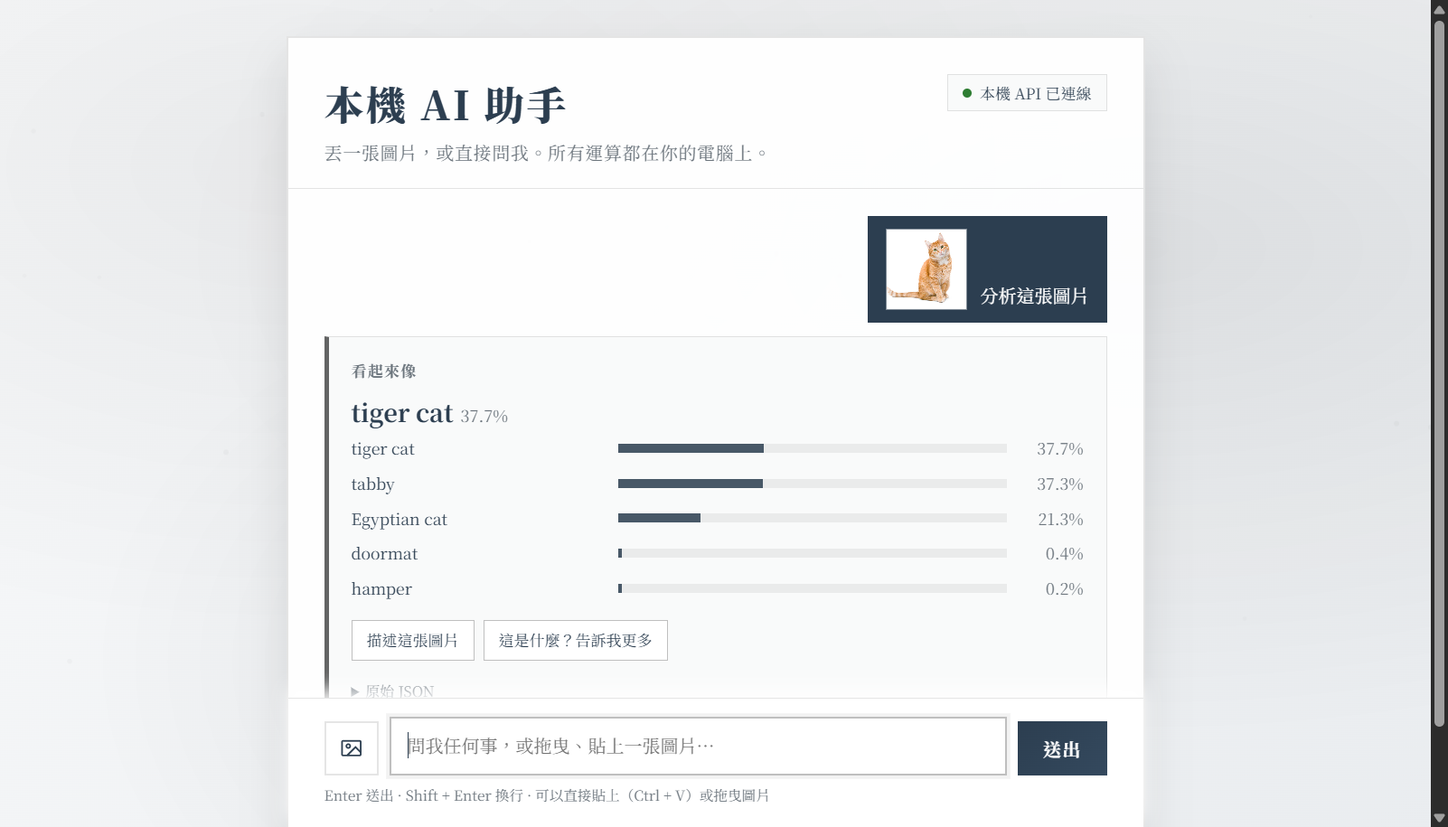
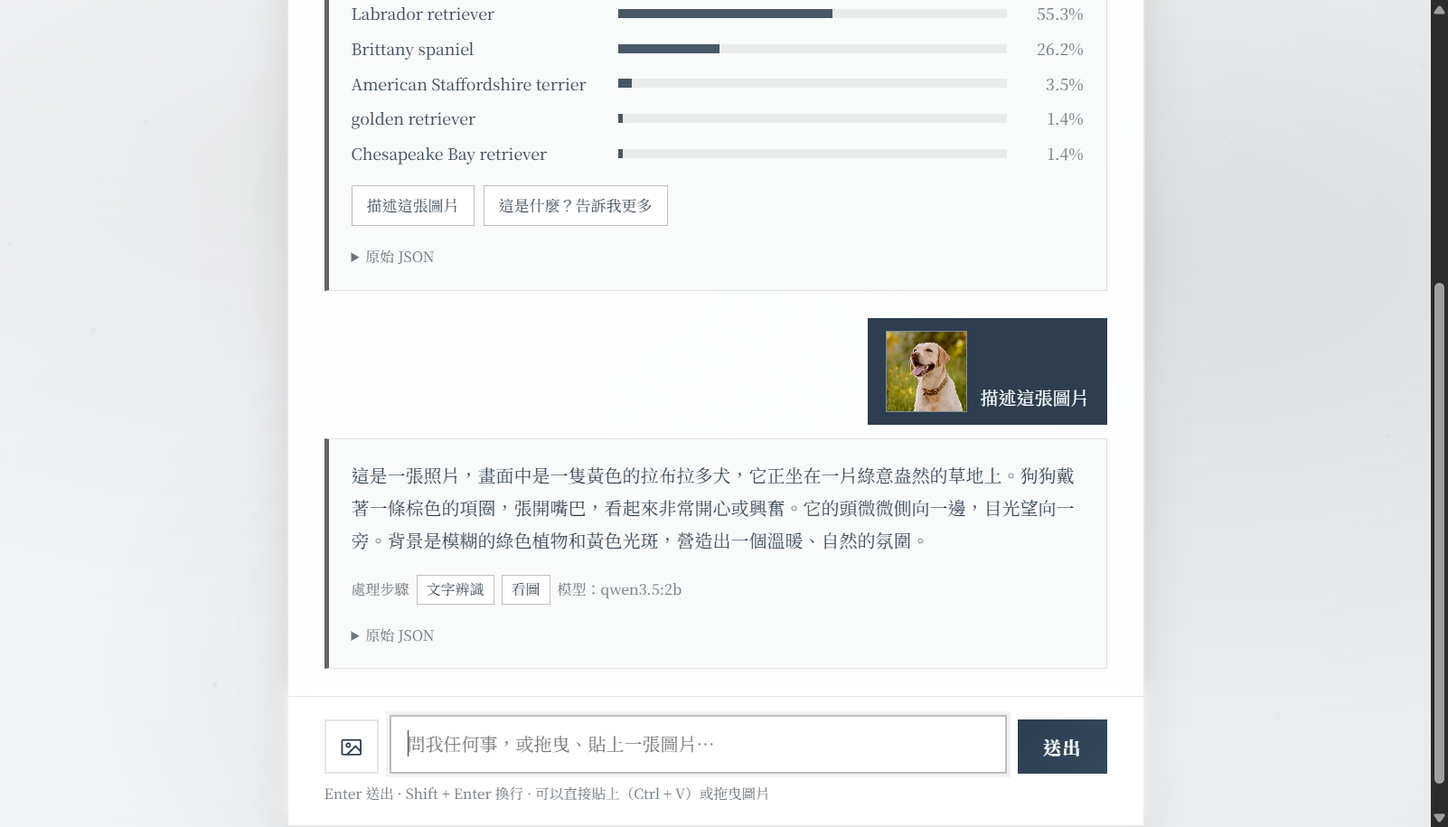
docs: document model choice by hardware and before/after measurements

diff --git a/README.md b/README.md
@@ -6,13 +6,13 @@
 [![Container image](https://github.com/reedlin2002/Local_API_AI/actions/workflows/container.yml/badge.svg)](https://github.com/reedlin2002/Local_API_AI/actions/workflows/container.yml)
 [![GitHub Pages](https://github.com/reedlin2002/Local_API_AI/actions/workflows/pages.yml/badge.svg)](https://reedlin2002.github.io/Local_API_AI/)
 
-Local_API_AI 是一套在自己電腦上執行的 AI 推理服務，把圖片分類、OCR 文字辨識、文字生成、圖像描述，以及能自行呼叫工具的 Agent 整合成同一組 REST API。所有推理都在本機完成，資料不會上傳到任何雲端服務。
+Local_API_AI 是一套在自己電腦上執行的 AI 推理服務，把圖片分類、文字辨識（OCR）、看圖問答與文字生成整合成同一組 REST API。所有推理都在本機完成，資料不會上傳到任何雲端服務。
 
 > **線上展示**：[開啟 Web Demo](https://reedlin2002.github.io/Local_API_AI/)
 > 介面放在 GitHub Pages，AI 運算在你本機的 API 上執行。開啟頁面前請先用 Docker 啟動 API（見[快速開始](#快速開始)）。
 
 > **專案定位**
-> 本專案以通用預訓練模型（ImageNet ResNet50、Tesseract、Ollama 本機 LLM）為核心，重點在驗證「本機推理 + 工具呼叫 + 自動化交付」這條完整路線，而不是追求單一模型的極致準確度。
+> 以小型開源模型（Qwen3.5-2B、PP-OCRv5、ResNet50）為核心，驗證一般筆電（4 GB 顯示卡）也能流暢執行的本機多模態路線。模型選擇都依實測決定，見[模型選擇與硬體考量](#模型選擇與硬體考量)。
 
 ![前端介面](docs/frontend.png)
 
@@ -26,6 +26,7 @@ Local_API_AI 是一套在自己電腦上執行的 AI 推理服務，把圖片分
 - [流程架構圖](#流程架構圖)
 - [技術棧](#技術棧)
 - [模型與方法](#模型與方法)
+- [模型選擇與硬體考量](#模型選擇與硬體考量)
 - [API 入口](#api-入口)
 - [效能與品質改善](#效能與品質改善)
 - [CI/CD](#cicd)
@@ -38,11 +39,11 @@ Local_API_AI 是一套在自己電腦上執行的 AI 推理服務，把圖片分
 
 ## 核心價值
 
-- **不用先選功能**：只有一個輸入框。丟圖片就自動分析、打字就回答、圖片加問題就交給 Agent，系統自己決定該用哪些模型。
+- **不用先選功能**：只有一個輸入框。丟圖片就自動分析、打字就回答、圖片加問題就看圖回答，系統自己決定該用哪些模型。
+- **先讀字、再看圖**：圖片問題會先用專門的 OCR 模型精準讀出圖中文字，再把圖片和文字一起交給多模態模型。小模型自己讀字容易猜錯，OCR 模型幾乎不會。
+- **筆電就跑得動**：一個 2B 的多模態模型同時負責文字與看圖，4 GB 顯存放得下 90%；看圖問答約 1 秒回完，不用在多個模型之間來回載入。
 - **資料不離開本機**：影像與文字只在本機處理，適合內部文件、敏感圖片與離線環境。
-- **一組 API 整合多種能力**：分類、OCR、文字生成、圖像描述與 Agent 共用相同的上傳、錯誤與輸出格式。
-- **Agent 一定看過圖才回答**：模型會用 tool calling 呼叫 OCR 與分類；小模型沒有呼叫工具時，伺服器會先跑工具，再把結果交給模型，避免憑空作答。
-- **缺模型時優雅降級**：沒有視覺模型時，圖像描述改用分類結果；Ollama 沒啟動時回傳清楚的 503 提示，而不是一般的伺服器錯誤。
+- **沒有 LLM 也能用**：圖片分類與 OCR 在 API 程序內執行，不需要 Ollama；Ollama 沒啟動時，前端會改顯示本機分析結果。
 - **預設安全**：CORS 只允許指定網站、錯誤訊息不帶堆疊資訊、不記錄使用者的 prompt 與模型輸出、限制上傳大小。
 - **自動化交付**：每次 push 都會跑測試、建置並實際啟動 Docker 映像做冒煙測試，通過後才發佈。
 
@@ -50,15 +51,14 @@ Local_API_AI 是一套在自己電腦上執行的 AI 推理服務，把圖片分
 
 | 功能 | 說明 |
 | --- | --- |
-| 單一輸入、自動分流 | 文字、圖片或兩者一起送出，前端自動決定要分析、回答還是交給 Agent；結果下方提供一鍵追問 |
+| 單一輸入、自動分流 | 文字、圖片或兩者一起送出，前端自動決定要分析還是回答；結果下方提供一鍵追問 |
+| 看圖問答 | 附圖提問時，OCR 先讀字，Qwen3.5 看圖並參考 OCR 結果回答，回應中列出處理步驟 |
 | 圖片分析 | 分類與 OCR 平行執行、一次回傳，不需要 Ollama；圖中有文字時優先顯示文字 |
+| 文字辨識 OCR | PP-OCRv5，支援繁體中文、簡體中文、英文與日文 |
 | 圖片分類 | ResNet50 辨識圖片主體，回傳前 5 名 ImageNet 類別與機率 |
-| 批次分類 | 一次上傳多張圖片，無法解析的檔案會單獨標示錯誤 |
-| OCR 文字辨識 | 辨識圖片中的英文與繁體中文 |
-| 文字生成 | 透過本機 Ollama 文字模型回答與創作 |
-| 圖像描述 | 有視覺模型時直接看圖描述；沒有時以分類結果請文字模型描述，並在回應中標明使用的方法 |
-| 智慧問答 Agent | 可附一張圖片，Agent 自行決定要呼叫 OCR 或圖片分類，再回答問題 |
-| 多格式輸出 | 每個端點都能回傳 JSON 或純文字 |
+| 圖像描述 | 多模態模型直接看圖描述，可自訂指示（例如指定用中文） |
+| 文字生成 | 本機 LLM 問答與創作 |
+| 批次分類 / 多格式輸出 | 一次上傳多張圖片；每個端點都能回傳 JSON 或純文字 |
 
 ---
 
@@ -70,44 +70,40 @@ flowchart TB
 
     subgraph API["Local_API_AI · ASP.NET Core（本機或 Docker）"]
         C["AIController<br/>輸入驗證 · 統一輸出 · 錯誤處理"]
-        subgraph InProc["程序內推理（不需網路）"]
-            CLS["圖片分類<br/>ONNX Runtime · ResNet50"]
-            OCR["OCR<br/>Tesseract"]
+        subgraph InProc["程序內推理（CPU，不需網路）"]
+            OCR["文字辨識<br/>PP-OCRv5 mobile"]
+            CLS["圖片分類<br/>ResNet50"]
         end
-        subgraph LLM["LLM 功能"]
-            TXT["文字生成"]
-            DESC["圖像描述"]
-            AG["Agent"]
-        end
+        AS["看圖問答 / 圖像描述 / 文字生成"]
     end
 
-    OL[("Ollama<br/>本機 LLM")]
+    OL[("Ollama · Qwen3.5-2B<br/>單一模型負責文字與看圖")]
 
     UI -->|"HTTP · CORS 白名單"| C
     C --> InProc
-    C --> LLM
-    LLM -->|"REST"| OL
-    AG -.->|"工具呼叫"| InProc
+    C --> AS
+    AS -->|"先讀圖中文字"| OCR
+    AS -->|"圖片縮至 768 px + OCR 文字"| OL
 ```
 
 ### 前端
 
-`wwwroot/index.html` 是純靜態頁面，介面只有一個輸入框：可以打字、按按鈕附加圖片、直接拖曳或貼上（Ctrl + V）圖片。使用者不需要知道背後有哪些模型，頁面會依輸入內容自動呼叫對應的 API（見下方[前端自動分流](#前端自動分流)）。
+`wwwroot/index.html` 是純靜態頁面，介面只有一個輸入框：可以打字、按按鈕附加圖片、直接拖曳或貼上（Ctrl + V）圖片。使用者不需要知道背後有哪些模型，頁面會依輸入內容自動呼叫對應的 API（見[前端自動分流](#前端自動分流)）。
 
-同一份檔案有兩種用法：由 API 本身提供（`http://localhost:5136`），或部署在 GitHub Pages 上，再連回使用者本機的 API。頁面會自動偵測 API 是否在線，並可自訂 API 位址。
+同一份檔案有兩種用法：由 API 本身提供（`http://localhost:5136`），或部署在 GitHub Pages 上，再連回使用者本機的 API。頁面會自動偵測 API 是否在線，未連線時每 5 秒自動重試。
 
 ### 後端與 AI 推理
 
 ASP.NET Core（.NET 10）提供 REST API，負責：
 
 - 驗證上傳檔案（格式、大小）並統一錯誤回應格式（RFC 7807）
-- 圖片分類與 OCR 直接在程序內執行，模型只在啟動時載入一次
-- 文字生成、圖像描述與 Agent 透過 Ollama REST API 呼叫本機 LLM
-- 將 Ollama 的各種失敗（未啟動、缺模型、不支援工具、逾時）轉成明確的狀態碼與提示
+- OCR 與圖片分類直接在程序內執行（ONNX Runtime），模型只載入一次
+- 看圖問答、圖像描述與文字生成透過 Ollama 呼叫本機的 Qwen3.5；API 啟動時就在背景預先載入模型
+- 將 Ollama 的各種失敗（未啟動、缺模型、逾時）轉成明確的狀態碼與提示
 
 ### 外部服務
 
-唯一的外部依賴是本機的 [Ollama](https://ollama.com)，只有文字生成、圖像描述與 Agent 需要它；圖片分類與 OCR 不需要網路，也不需要 Ollama。
+唯一的外部依賴是本機的 [Ollama](https://ollama.com)，只有看圖問答、圖像描述與文字生成需要它。
 
 ---
 
@@ -119,42 +115,27 @@ ASP.NET Core（.NET 10）提供 REST API，負責：
 flowchart LR
     A["使用者輸入<br/>文字 / 圖片 / 兩者"] --> B{"有文字？"}
     B -->|"沒有，只有圖片"| C["/api/ai/analyze<br/>分類 + OCR"]
-    B -->|有| D["/api/ai/ask<br/>Agent"]
+    B -->|有| D["/api/ai/ask<br/>看圖問答"]
     C --> E["顯示結果<br/>＋ 一鍵追問"]
-    E -->|"描述這張圖片"| F["/api/ai/describe-image"]
-    E -->|"這段文字在說什麼？"| D
+    E -->|"描述這張圖片<br/>這段文字在說什麼？"| D
     D -->|"Ollama 未啟動且有圖片"| C
 ```
 
 附加的圖片會保留在輸入框，接著追問同一張圖片時不用重新上傳；按 × 即可移除。
 
-### Agent 決策流程
+### 看圖問答流程
 
 ```mermaid
 flowchart LR
-    A["使用者問題<br/>（可附圖片）"] --> B{"有附圖片？"}
-    B -->|否| C["LLM 直接回答"]
-    B -->|是| D["LLM + 工具<br/>classify_image<br/>read_text_in_image"]
-    D -->|"呼叫工具"| F["執行分類 / OCR<br/>結果回傳 LLM"]
-    F --> D
-    D -->|"根據工具結果作答"| H["回傳答案<br/>與使用過的工具"]
-    D -->|"沒呼叫工具<br/>或不支援工具"| I["伺服器先跑全部工具<br/>再把結果交給 LLM"]
-    I --> H
-    C --> H
+    A["問題 + 圖片"] --> B["驗證圖片格式"]
+    B --> C["PP-OCRv5<br/>讀出圖中文字"]
+    B --> D["縮小圖片<br/>長邊 ≤ 768 px"]
+    C --> E["Qwen3.5-2B<br/>看圖 + 參考 OCR 文字"]
+    D --> E
+    E --> F["回答 + 處理步驟<br/>（文字辨識、看圖）"]
 ```
 
-### 圖像描述流程
-
-```mermaid
-flowchart LR
-    A["上傳圖片"] --> B["驗證格式"]
-    B --> C{"已安裝視覺模型？<br/>例：llava"}
-    C -->|是| D["圖片直接交給視覺模型"]
-    C -->|否| E["ResNet50 取得前 3 名類別"]
-    E --> F["文字模型依類別描述<br/>（不得捏造細節）"]
-    D --> G["description + method + model"]
-    F --> G
-```
+OCR 與縮圖同時進行。沒有附圖時，問題直接交給同一個模型回答。
 
 ### 錯誤處理
 
@@ -173,11 +154,12 @@ flowchart LR
 | 分層 | 技術 |
 | --- | --- |
 | API | ASP.NET Core（.NET 10）、Swagger / OpenAPI、ProblemDetails |
-| 圖片分類 | ONNX Runtime、ResNet50 v2、SkiaSharp（解碼、EXIF 轉正、縮放裁切） |
-| OCR | Tesseract 5（英文 + 繁體中文） |
-| LLM | Ollama（文字、tool calling、視覺模型） |
+| 影像處理 | SkiaSharp（解碼、EXIF 轉正、縮放裁切） |
+| OCR | PP-OCRv5 mobile、RapidOcrNet、ONNX Runtime |
+| 圖片分類 | ResNet50 v2、ONNX Runtime |
+| 多模態 LLM | Ollama、Qwen3.5-2B（非思考模式） |
 | 前端 | HTML、CSS、JavaScript（無框架） |
-| 測試 | xUnit、WebApplicationFactory（真實模型整合測試 + 假 Ollama 單元測試） |
+| 測試 | xUnit、WebApplicationFactory（真實 OCR / 分類整合測試 + 假 Ollama 單元測試） |
 | 部署 | Docker（GHCR）、GitHub Pages、Windows 免安裝版（GitHub Releases） |
 | CI/CD | GitHub Actions |
 
@@ -187,12 +169,44 @@ flowchart LR
 
 | 模組 | 模型／方法 | 主要用途 |
 | --- | --- | --- |
-| 影像前處理 | 短邊縮放至 256 → 中央裁切 224 → ImageNet mean/std 正規化 | 與 ResNet50 訓練時的輸入一致 |
-| 圖片分類 | ResNet50 v2（ONNX Model Zoo）+ softmax | 1000 類 ImageNet 物件辨識，輸出機率 |
-| OCR | Tesseract LSTM，`eng+chi_tra`；中文字間多餘空白自動移除 | 擷取圖片中的文字 |
-| 文字生成 | Ollama `llama2`（可設定） | 問答與創作 |
-| Agent | Ollama `mistral`（支援 tool calling，可設定） | 判斷何時需要看圖、整合工具結果回答 |
-| 圖像描述 | Ollama `llava`（可設定）；缺少時退回分類結果 + 文字模型 | 產生圖片的自然語言描述 |
+| 文字辨識 | PP-OCRv5 mobile（偵測 + 中文辨識，約 22 MB，關閉方向分類以降低延遲） | 精準讀出圖中文字，提供給模型作為依據 |
+| 看圖問答 / 描述 / 文字 | Qwen3.5-2B（Ollama，非思考模式，採 model card 建議的取樣參數） | 理解圖片內容並以使用者的語言回答 |
+| 送圖前處理 | 長邊縮至 768 px（PNG 保持 PNG 以維持文字清晰） | 圖片的 token 數與像素數成正比，縮圖可大幅降低延遲 |
+| 圖片分類 | ResNet50 v2 + ImageNet 正規化 + softmax | 不需要 Ollama 的快速離線分類 |
+
+---
+
+## 模型選擇與硬體考量
+
+開發機為 GTX 1650 Ti（4 GB 顯存）+ i7-10750H，以下皆為該機器上的實測。
+
+### LLM：模型要「放得進顯存」
+
+| 模型 | 載入大小 | 在顯存的比例 | 文字生成速度 | 能看圖 |
+| --- | --- | --- | --- | --- |
+| mistral 7B（舊預設） | 4.8 GB | 54% | 8 tok/s | 否 |
+| phi3 3.8B | 3.2 GB | 81% | 13 tok/s | 否 |
+| qwen3.5:0.8b | 0.6 GB | 100% | 43 tok/s | 是，但常識容易捏造 |
+| **qwen3.5:2b（預設）** | 2.4 GB | **90%** | **32 tok/s** | 是 |
+| qwen3.5:4b | 3.2 GB | 67% | 12 tok/s | 是，回答品質最好 |
+
+速度主要取決於模型有多少比例放得進顯存：4B 有三分之一落到 CPU，速度只剩 2B 的三分之一。顯存更大的電腦可改用 4B（設定 `Ollama:Model`）。依 [Qwen3.5-2B model card](https://huggingface.co/Qwen/Qwen3.5-2B)，2B 在 OCRBench 為 85.4，高於上一代 Qwen3-VL-4B 的 80.8。
+
+### OCR：準確度與 CPU 延遲
+
+| 引擎 | 中文樣本辨識結果 | 文字圖延遲 |
+| --- | --- | --- |
+| Tesseract 5（舊） | 你 好 **哂** ，… 圖 **傅** } | 58 ms |
+| **PP-OCRv5 mobile（採用）** | 你好啊，這是我用來測試的文字圖像 | 70–83 ms |
+| PP-OCRv6 small | 同上 | 1.0–2.4 s |
+
+依 [PP-OCRv5 論文](https://arxiv.org/abs/2603.24373)，在 OmniDocBench 上的正規化編輯距離為 0.067，Tesseract 為 0.324。PP-OCRv6 較新，但在這顆 CPU 上太慢。
+
+### 其他發現
+
+- **Ollama 的 CUDA 後端需要 NVIDIA 驅動 550 以上**，較舊的驅動會退回 Vulkan，速度通常較慢。
+- **每次切換模型要重新載入 8–17 秒**。舊版文字、Agent、看圖各用一個模型，4 GB 顯存放不下兩個，因此改為單一模型。
+- **閒置後重新載入模型約 10 秒**：API 啟動時預先載入，並把 `keep_alive` 設為 30 分鐘。
 
 ---
 
@@ -201,12 +215,12 @@ flowchart LR
 | 方法 | 路徑 | 用途 |
 | --- | --- | --- |
 | `GET` | `/health` | 服務健康檢查 |
+| `POST` | `/api/ai/ask` | 問答（可附圖片：OCR + 看圖） |
 | `POST` | `/api/ai/analyze` | 圖片分析：分類 + OCR 一次回傳（不需要 Ollama） |
-| `POST` | `/api/ai/ask` | Agent 問答（可附圖片） |
-| `POST` | `/api/ai/describe-image` | 圖像描述 |
-| `POST` | `/api/ai` | 通用入口：`model` = `imageclassifier`、`textgeneration`、`agent` |
+| `POST` | `/api/ai/describe-image` | 圖像描述，可用 `prompt` 自訂指示 |
+| `POST` | `/api/ai/ocr` | 文字辨識 |
 | `POST` | `/api/ai/batch-classify` | 批次圖片分類 |
-| `POST` | `/api/ai/ocr` | OCR 文字辨識 |
+| `POST` | `/api/ai` | 通用入口：`model` = `imageclassifier`、`textgeneration`、`agent` |
 
 所有 `POST` 端點接受 `multipart/form-data`，並以 `?outputFormat=json|text` 選擇輸出格式。完整參數與回應格式請啟動服務後查看 `/swagger`。
 
@@ -214,15 +228,24 @@ flowchart LR
 
 ## 效能與品質改善
 
-以下為本次重構前後的實測結果（伺服器端處理時間）：
+端對端實測（從送出請求到收到完整回答，模型已載入）：
+
+| 情境 | 改善前（mistral 7B + Tesseract） | 改善後（Qwen3.5-2B + PP-OCRv5） |
+| --- | --- | --- |
+| 開機後第一個問題 | 23.4 s | 1.9 s |
+| 純文字問答 | 16.7 s | 1.6 s |
+| 貓的照片「這是什麼動物？」 | 33.6 s，猜是 tabby cat | **0.8 s**，「這是一隻橘色的貓」 |
+| 狗的照片「什麼品種？」 | 39.6 s，英文回答 | 1.5 s，「拉布拉多犬」 |
+| 中文文字圖「寫了什麼？」 | 37.0 s，含 2 個錯字 | **0.7 s**，逐字正確 |
+
+早期重構的修正：
 
 | 項目 | 改善前 | 改善後 | 原因 |
 | --- | --- | --- | --- |
-| 圖片分類 | 約 620 ms | 約 45 ms | 100 MB 模型改為啟動時載入一次，而不是每個請求重新載入 |
-| OCR | 780–1200 ms | 約 55 ms | Tesseract 引擎改用物件池重複使用 |
-| 分類正確性 | 每個標籤都錯位一格 | 正確 | 標籤檔多了一行 `background`；現在啟動時會檢查標籤數與模型輸出一致 |
+| 圖片分類 | 約 620 ms | 約 45 ms | 100 MB 模型改為只載入一次 |
+| 分類正確性 | 每個標籤都錯位一格 | 正確 | 標籤檔多了一行 `background`；現在啟動時會檢查標籤數 |
 | 信心分數 | 原始 logit（例：10.4） | 機率（例：37%） | 加入 softmax，並回傳前 5 名 |
-| Docker 映像大小 | 1.81 GB | 812 MB | 只發佈 linux-x64 的原生函式庫 |
+| Docker 映像大小 | 1.81 GB | 688 MB | 只發佈 linux-x64 原生函式庫，並移除 Tesseract |
 
 ---
 
@@ -230,7 +253,7 @@ flowchart LR
 
 ```mermaid
 flowchart LR
-    A["push / Pull Request"] --> B["CI<br/>建置 + 全部測試<br/>（含真實 ONNX 推理與 OCR）"]
+    A["push / Pull Request"] --> B["CI<br/>建置 + 全部測試<br/>（含真實 OCR 與分類）"]
     A --> C["建置 Docker 映像"]
     C --> D["啟動容器並執行冒煙測試<br/>健康檢查 · 分類 · OCR · 錯誤輸入"]
     D -->|main / tag| E[("GHCR<br/>ghcr.io/reedlin2002/local_api_ai")]
@@ -245,24 +268,25 @@ flowchart LR
 ## 快速開始
 
 ```bash
+ollama pull qwen3.5:2b
 docker run --rm -p 127.0.0.1:5136:8080 ghcr.io/reedlin2002/local_api_ai:latest
 ```
 
 啟動後開啟 http://localhost:5136 或 [線上 Web Demo](https://reedlin2002.github.io/Local_API_AI/) 即可使用。
 
-- 文字生成、圖像描述與 Agent 需要另外安裝 [Ollama](https://ollama.com) 並下載模型（`llama2`、`mistral`，視覺描述可選 `llava`）。
+- 只需要圖片分析與 OCR 的話，可以不裝 [Ollama](https://ollama.com)。
 - 不想用 Docker：可到 [Releases](https://github.com/reedlin2002/Local_API_AI/releases) 下載 Windows 免安裝版，或安裝 .NET 10 SDK 後在專案目錄執行 `dotnet run`。
-- 模型名稱、Ollama 位址、允許的網站與上傳上限都在 `appsettings.json`，也可以用環境變數覆寫（例如 `Ollama__AgentModel=qwen2.5`）。
+- 模型、Ollama 位址、允許的網站與上傳上限都在 `appsettings.json`，也可以用環境變數覆寫（例如顯存較大時 `Ollama__Model=qwen3.5:4b`）。
 
 ---
 
 ## 目前限制
 
-- **分類只涵蓋 ImageNet 1000 類**：屬於通用物件辨識，相近類別容易混淆（例如 tiger cat 與 tabby cat），也無法辨識類別以外的內容。
-- **中文 OCR 準確度有限**：Tesseract 對印刷體表現較好，手寫、低解析度或複雜背景容易出錯（例如「圖片」可能被辨識成「圖傅」）。
-- **小型 LLM 的工具呼叫不穩定**：實測 `mistral` 7B 約六次中只有一次主動呼叫工具，因此由伺服器補跑工具來確保回答有依據。
-- **預設模型的中文能力有限**：`mistral` 7B 的中文回答偶有錯字，也可能誤解 ImageNet 標籤（例如把家貓花紋的 tiger cat 當成老虎）；中文場景建議改用支援 tool calling 的 `qwen2.5:7b`（設定 `Ollama:AgentModel`）。
-- **未安裝視覺模型時的圖像描述**：只根據分類標籤推測，不是真的「看到」圖片，回應中會以 `method: label-fallback` 標明。
+- **小模型仍會出錯**：2B 模型的常識不一定正確（例如台北 101 的完工年代），實測也曾把貓說成貓頭鷹。需要更可靠的回答時可改用 4B。
+- **OCR 對手寫與藝術字較弱**：依 PP-OCRv5 論文，手寫中文的準確率約 41.7%，明顯低於印刷體。
+- **照片的 OCR 偵測較慢**：沒有文字的照片也要完整掃描，約 0.2–0.5 秒。
+- **分類只涵蓋 ImageNet 1000 類**：只用於不需要 Ollama 的快速分析，相近類別容易混淆。
+- **沒有對話記憶**：每個問題獨立處理；追問同一張圖片時，圖片會一起重新送出。
 - **沒有身分驗證**：設計為本機使用，請勿直接對外開放；Docker 指令預設只綁定 `127.0.0.1`。
 - **瀏覽器限制**：從 GitHub Pages 連回本機 API 時，Chrome / Edge 會詢問是否允許存取本機網路；Safari 會阻擋 https 頁面連到 `http://localhost`，建議改用 API 內建頁面。
 
@@ -270,10 +294,10 @@ docker run --rm -p 127.0.0.1:5136:8080 ghcr.io/reedlin2002/local_api_ai:latest
 
 ## 未來展望
 
-1. **預設改用視覺語言模型**：以 Qwen2.5-VL 等模型取代「分類 + 文字模型」的描述方式，讓 Agent 也能直接看圖。
-2. **GPU 加速**：啟用 ONNX Runtime 的 CUDA / DirectML 執行環境，並提供 GPU 版 Docker 映像。
+1. **依硬體自動選模型**：偵測可用顯存，自動在 2B / 4B 之間選擇。
+2. **GPU 加速 OCR**：在顯存允許時以 ONNX Runtime 的 DirectML / CUDA 執行 OCR。
 3. **串流回應**：LLM 回答改為逐字串流，降低長回答的等待感。
-4. **擴充 Agent 工具**：加入文件解析、表格擷取等工具，並支援多張圖片。
+4. **多輪對話**：保留對話脈絡，追問時不必重新送出圖片。
 5. **區網部署模式**：加入 API Key 驗證與使用量限制，讓團隊能在內網共用一台推理主機。
 6. **模型管理**：模型檔改為首次啟動時下載並驗證雜湊，縮小 repo 體積並方便更換模型。
 
@@ -286,18 +310,18 @@ Local_API_AI/
 ├── Controllers/
 │   └── AIController.cs            # API 路由、輸入驗證、輸出格式
 ├── Services/
-│   ├── ImageClassifier.cs         # ONNX ResNet50 分類與影像前處理
-│   ├── OcrService.cs              # Tesseract OCR（引擎物件池）
-│   ├── OllamaClient.cs            # Ollama REST API 用戶端
-│   ├── ImageDescriber.cs          # 圖像描述（視覺模型／分類降級）
-│   └── AgentService.cs            # Agent tool-calling 迴圈
-├── Infrastructure/                # 設定、例外與統一錯誤回應
-├── Models/                        # ResNet50 ONNX 模型與 ImageNet 標籤
-├── tessdata/                      # Tesseract 語言檔（eng、chi_tra）
+│   ├── AssistantService.cs        # 看圖問答：OCR + 多模態模型
+│   ├── OcrService.cs              # PP-OCRv5（引擎物件池）
+│   ├── ImageClassifier.cs         # ResNet50 分類、影像解碼與縮圖
+│   ├── ImageDescriber.cs          # 圖像描述
+│   └── OllamaClient.cs            # Ollama REST API 用戶端
+├── Infrastructure/                # 設定、例外、統一錯誤回應、模型預載
+├── Models/                        # ResNet50 與 ImageNet 標籤
+│   └── ocr/                       # PP-OCRv5 偵測、方向分類、中文辨識與字典
 ├── wwwroot/                       # 前端頁面（同時部署到 GitHub Pages）
 ├── tests/LocalAIAgentAPI.Tests/   # 整合測試與單元測試
 ├── samples/                       # 測試用圖片
-├── scripts/                       # Linux Tesseract 設定、冒煙測試
+├── scripts/smoke-test.sh          # 容器冒煙測試
 ├── .github/workflows/             # CI、Docker、Pages、Release
 ├── Dockerfile
 └── README.md
@@ -305,5 +329,6 @@ Local_API_AI/
 
 ## 授權與模型來源
 
-- 圖片分類模型：[ONNX Model Zoo – ResNet50 v2](https://github.com/onnx/models)
-- OCR 語言檔：[tesseract-ocr/tessdata](https://github.com/tesseract-ocr/tessdata)
+- 多模態模型：[Qwen3.5-2B](https://huggingface.co/Qwen/Qwen3.5-2B)（Apache 2.0，透過 Ollama 執行）
+- 文字辨識：[PaddleOCR PP-OCRv5](https://github.com/PaddlePaddle/PaddleOCR)（Apache 2.0），經 [RapidOcrNet](https://github.com/BobLd/RapidOcrNet) 以 ONNX Runtime 執行
+- 圖片分類：[ONNX Model Zoo – ResNet50 v2](https://github.com/onnx/models)
